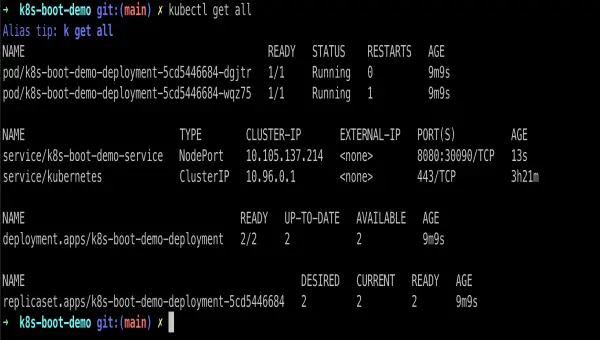
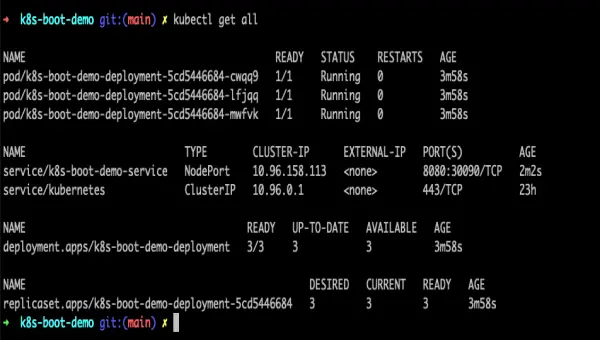
Kubernetes Tutorial Part 1 - Update

diff --git a/content/posts/2021/2021-09-01-getting-started-with-kubernetes.md b/content/posts/2021/2021-09-01-getting-started-with-kubernetes.md
@@ -11,9 +11,9 @@ tags: [Kubernetes, DevOps, Java, SpringBoot]
 ---
 
 [Docker](https://www.docker.com/) and [Kubernetes](https://kubernetes.io/) has revolutionized how we build and run the applications. 
-In recent years containerization becomes new normal and many organizations start using Kubernetes as Container Orchestration Platform.
+In recent years containerization becomes new normal, and many organizations start using Kubernetes as Container Orchestration Platform.
 
-I was curious about Kubernetes and [played with it a bit 3 years ago](https://github.com/sivaprasadreddy/spring-boot-tutorials/tree/master/spring-boot-k8s-demo) but I thought let's wait and see is it going to be a real thing or just another over hyped technology. Now I see Kubernetes everywhere, especially where microservice architecture being used for their systems. So, I finally decided to learn it properly and share my learnings along the way.
+I was curious about Kubernetes and [played with it a bit 3 years ago](https://github.com/sivaprasadreddy/spring-boot-tutorials/tree/master/spring-boot-k8s-demo) but I thought let's wait and see is it going to be a real thing or just another over hyped technology. Now I see Kubernetes everywhere, especially where microservice architecture is used for their systems. So, I finally decided to learn it properly and share my learning along the way.
 
 In this article we will learn:
 
@@ -28,7 +28,7 @@ In this article we will learn:
 ## 1. Creating a docker image from a SpringBoot application
 We are going to build a simple SpringBoot application which we are going to use for this tutorial.
 Go to [Spring Initializr](https://start.spring.io/) and select **Web, Actuator and Lombok** starters and generate the application.
-You can click [Here](https://start.spring.io/#!type=maven-project&language=java&platformVersion=2.5.4&packaging=jar&jvmVersion=11&groupId=com.sivalabs&artifactId=k8s-boot-demo&name=k8s-boot-demo&description=Demo%20project%20for%20Spring%20Boot&packageName=com.sivalabs.k8sbootdemo&dependencies=lombok,web,actuator) to generate the application with desired starters already seleted.
+You can click [Here](https://start.spring.io/#!type=maven-project&language=java&platformVersion=2.5.4&packaging=jar&jvmVersion=11&groupId=com.sivalabs&artifactId=k8s-boot-demo&name=k8s-boot-demo&description=Demo%20project%20for%20Spring%20Boot&packageName=com.sivalabs.k8sbootdemo&dependencies=lombok,web,actuator) to generate the application with desired starters already selected.
 
 Our SpringBoot application is going to be a very simple one as our goal here is to learn Kubernetes, not exploring SpringBoot's super powers.
 
@@ -176,7 +176,7 @@ That's enough of theory, let's get our hands on Kubernetes.
 
 ## 3. Local kubernetes setup using Minikube
 
-There are few options to run a Kubernetes Cluster locally such as [Minikube](https://minikube.sigs.k8s.io/docs/start/), [Kind](https://kind.sigs.k8s.io/), [K3s](https://k3s.io/) etc. I felt **Minikube** is the most easiest way to get up and running compared to others.
+There are few options to run a Kubernetes Cluster locally such as [Minikube](https://minikube.sigs.k8s.io/docs/start/), [Kind](https://kind.sigs.k8s.io/), [K3s](https://k3s.io/) etc. I felt **Minikube** is the easiest way to get up and running compared to others.
 
 ### Install Minikube
 Let's install Minikube which can be used to create a single node kubernetes cluster locally.
@@ -430,10 +430,12 @@ We can access the service using minikube IP on nodePort 30090.
 $ minikube ip
 192.168.99.103
 $ curl 192.168.99.103:30090/api/info
-$ while true; echo "\n"; do curl 192.168.99.103:30090/api/info; sleep 1;  done;
+$ while true; do curl 192.168.99.103:30090/api/info; sleep 1; echo "";  done;
 ```
 
 You can see requests are serving from different pods by checking the **hostName** in the response.
+
+{{< figure src="/images/k8s-p1-5.webp"  >}}
 
 ## Tips
 * Use Kubectl autocomplete https://kubernetes.io/docs/reference/kubectl/cheatsheet/#kubectl-autocomplete
